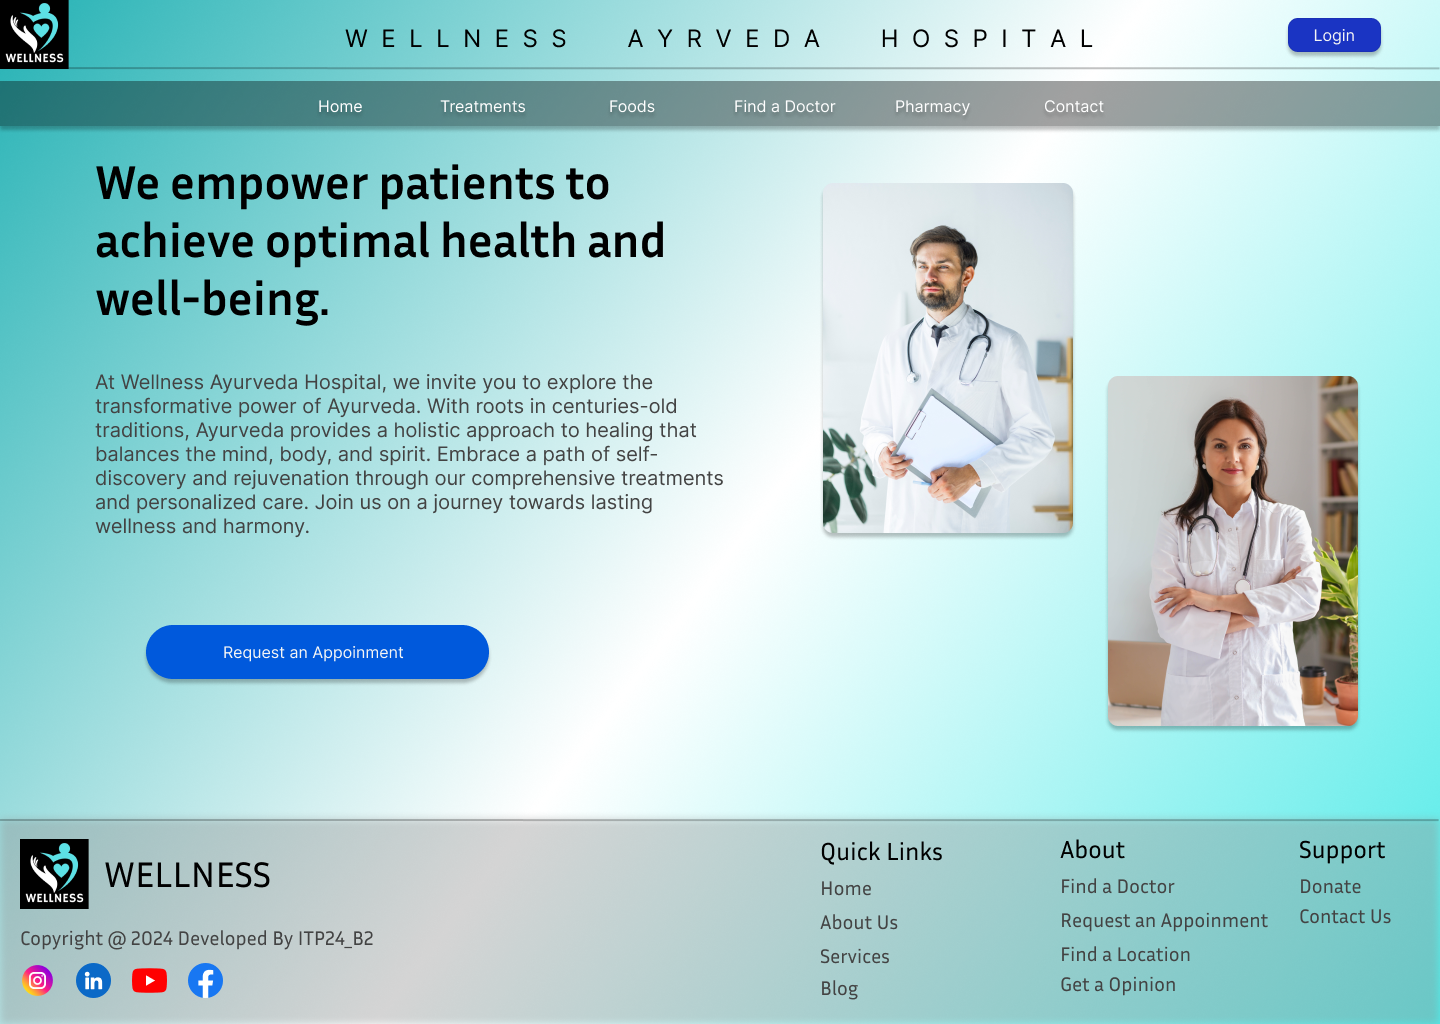
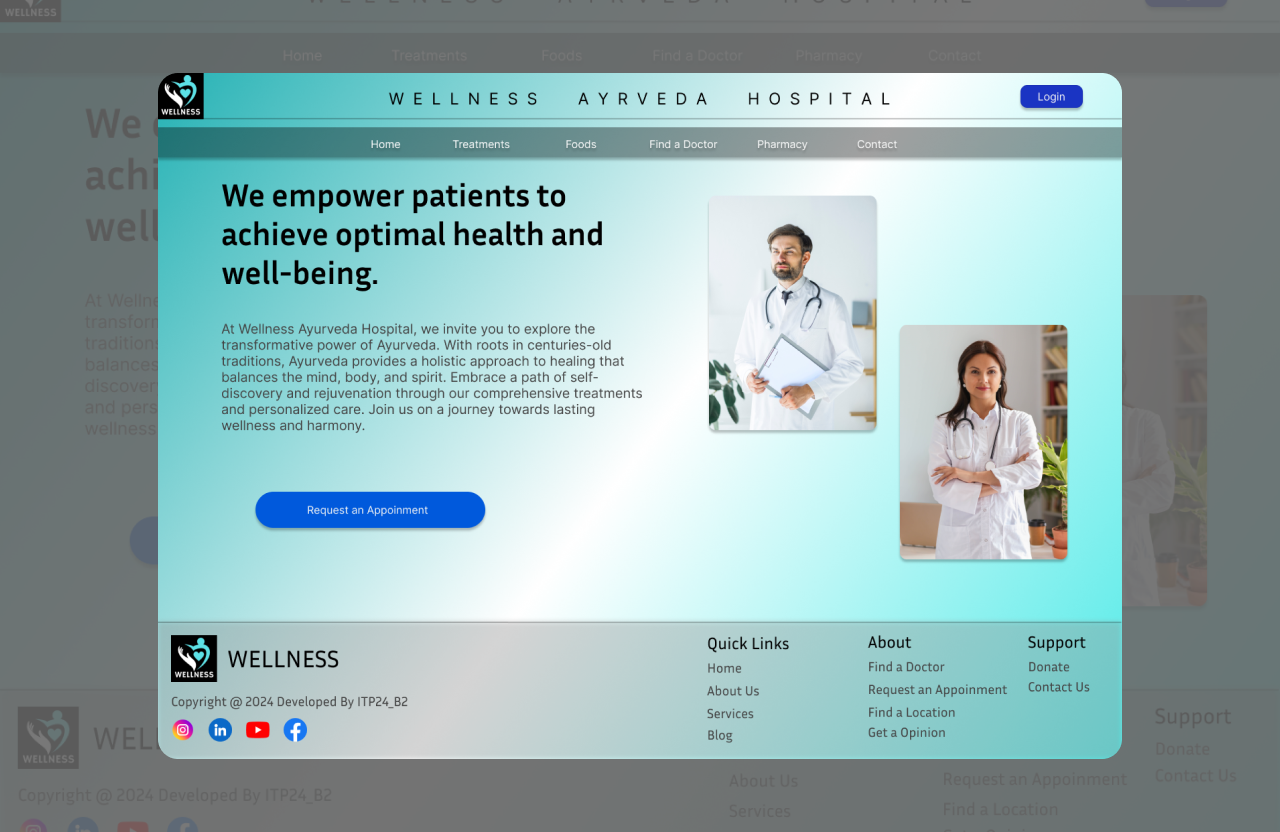
add backgroun imag
include project image and change nav bar mobile responsive

diff --git a/index.html b/index.html
@@ -45,7 +45,12 @@
         <div class="text-1x1 font-semibold">
           Nadun
         </div>
-        <ul class="flex space-x-8 text-lg">
+        <button id="menu-toggle" class="lg:hidden text-xl">
+          <i class="fas fa-bars"></i>
+        </button>
+        <!-- <ul class="flex space-x-8 text-lg"> -->
+          <ul id="menu" class="hidden flex-col bg-transparent lg:flex lg:flex-row lg:space-x-8 lg:bg-transparent lg:static lg:w-auto">
+  
           <li><a href="#home" class="hover:text-black-300">Home</a></li>
           <li><a href="#about" class="hover:text-black-300">About</a></li>
           <li><a href="#services" class="hover:text-black-300">Services</a></li>
@@ -268,18 +273,18 @@
     <div id="uiux-design-section" class="grid grid-cols-1 sm:grid-cols-2 lg:grid-cols-3 gap-10 hidden">
       <!-- Portfolio Item 1 -->
       <div class="portfolio-item group relative overflow-hidden rounded-lg shadow-lg">
-        <img src="./SRC/Assert/uiux1.png" alt="UI/UX Design 1" class="w-full h-60 object-cover">
+        <img src="./SRC/Assert/ui work1.png" alt="UI/UX Design 1" class="w-full h-60 object-cover">
         <div class="absolute inset-0 bg-black bg-opacity-60 flex flex-col justify-center items-center opacity-0 group-hover:opacity-100 transition-opacity">
-          <h3 class="text-white text-2xl font-semibold mb-2">UI/UX Design Project 1</h3>
+          <h3 class="text-white text-2xl font-semibold mb-2">website Homepage Design</h3>
           <p class="text-gray-300 mb-4 text-center">Lorem ipsum dolor sit amet, consectetur adipisicing elit.</p>
           <a href="#" class="px-6 py-2 text-white bg-blue-500 rounded-full hover:bg-blue-600 transition">View Project</a>
         </div>
       </div>
       <!-- Portfolio Item 2 -->
       <div class="portfolio-item group relative overflow-hidden rounded-lg shadow-lg">
-        <img src="./SRC/Assert/uiux2.png" alt="UI/UX Design 2" class="w-full h-60 object-cover">
+        <img src="./SRC/Assert/ui work2.png" alt="UI/UX Design 2" class="w-full h-60 object-cover">
         <div class="absolute inset-0 bg-black bg-opacity-60 flex flex-col justify-center items-center opacity-0 group-hover:opacity-100 transition-opacity">
-          <h3 class="text-white text-2xl font-semibold mb-2">UI/UX Design Project 2</h3>
+          <h3 class="text-white text-2xl font-semibold mb-2">AP collection UI/UX Design</h3>
           <p class="text-gray-300 mb-4 text-center">Lorem ipsum dolor sit amet, consectetur adipisicing elit.</p>
           <a href="#" class="px-6 py-2 text-white bg-blue-500 rounded-full hover:bg-blue-600 transition">View Project</a>
         </div>

diff --git a/SRC/JS/script.js b/SRC/JS/script.js
@@ -19,6 +19,9 @@ document.addEventListener("DOMContentLoaded", () => {
 });
 
 
+
+
+
   // JavaScript to toggle between the two project categories
   document.getElementById('uni-projects').addEventListener('click', function() {
     document.getElementById('uni-projects-section').classList.remove('hidden');
@@ -30,6 +33,12 @@ document.addEventListener("DOMContentLoaded", () => {
     document.getElementById('uni-projects-section').classList.add('hidden');
   });
 
+
+  document.getElementById('menu-toggle').addEventListener('click', () => {
+    const menu = document.getElementById('menu');
+    menu.classList.toggle('hidden');
+  });
+  
 
 
 

diff --git a/SRC/HTML/index.html b/SRC/HTML/index.html
@@ -40,7 +40,10 @@
         <div class="text-1x1 font-semibold">
           Nadun
         </div>
-        <ul class="flex space-x-8 text-lg">
+        <button id="menu-toggle" class="lg:hidden text-xl">
+          <i class="fas fa-bars"></i>
+        </button>
+        <ul id="menu" class=" hidden lg:flex space-x-8 text-lg">
           <li><a href="#home" class="hover:text-black-300">Home</a></li>
           <li><a href="#about" class="hover:text-black-300">About</a></li>
           <li><a href="#services" class="hover:text-black-300">Services</a></li>

diff --git a/SRC/CSS/style.css b/SRC/CSS/style.css
@@ -32,7 +32,7 @@ header {
 
 /* Home Section Background */
 .home-section {
-  background-image: url('../Assert/background\ 2.png'); /* Path to your background image */
+  background-image: url('../Assert/background\ 3.png'); /* Path to your background image */
   background-size: cover; /* Ensure the image covers the entire section */
   background-position: center; /* Center the image */
   background-repeat: no-repeat; /* Prevent tiling */
